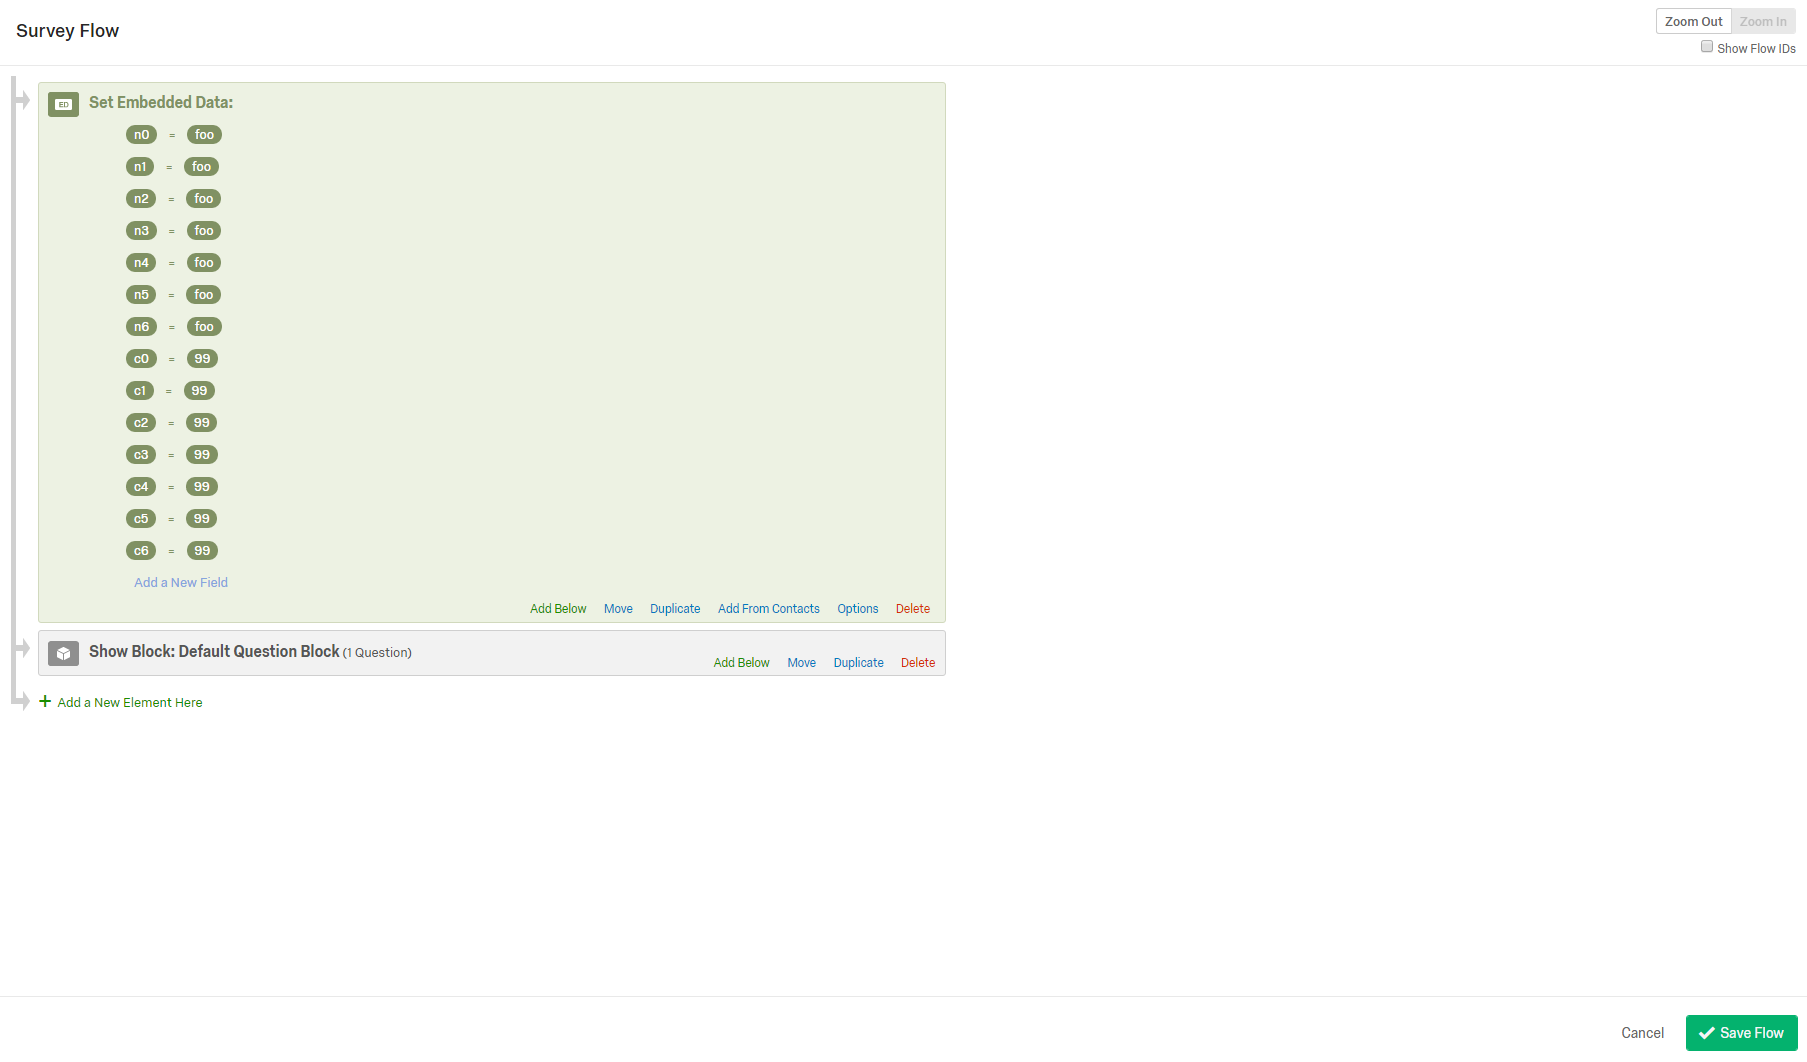
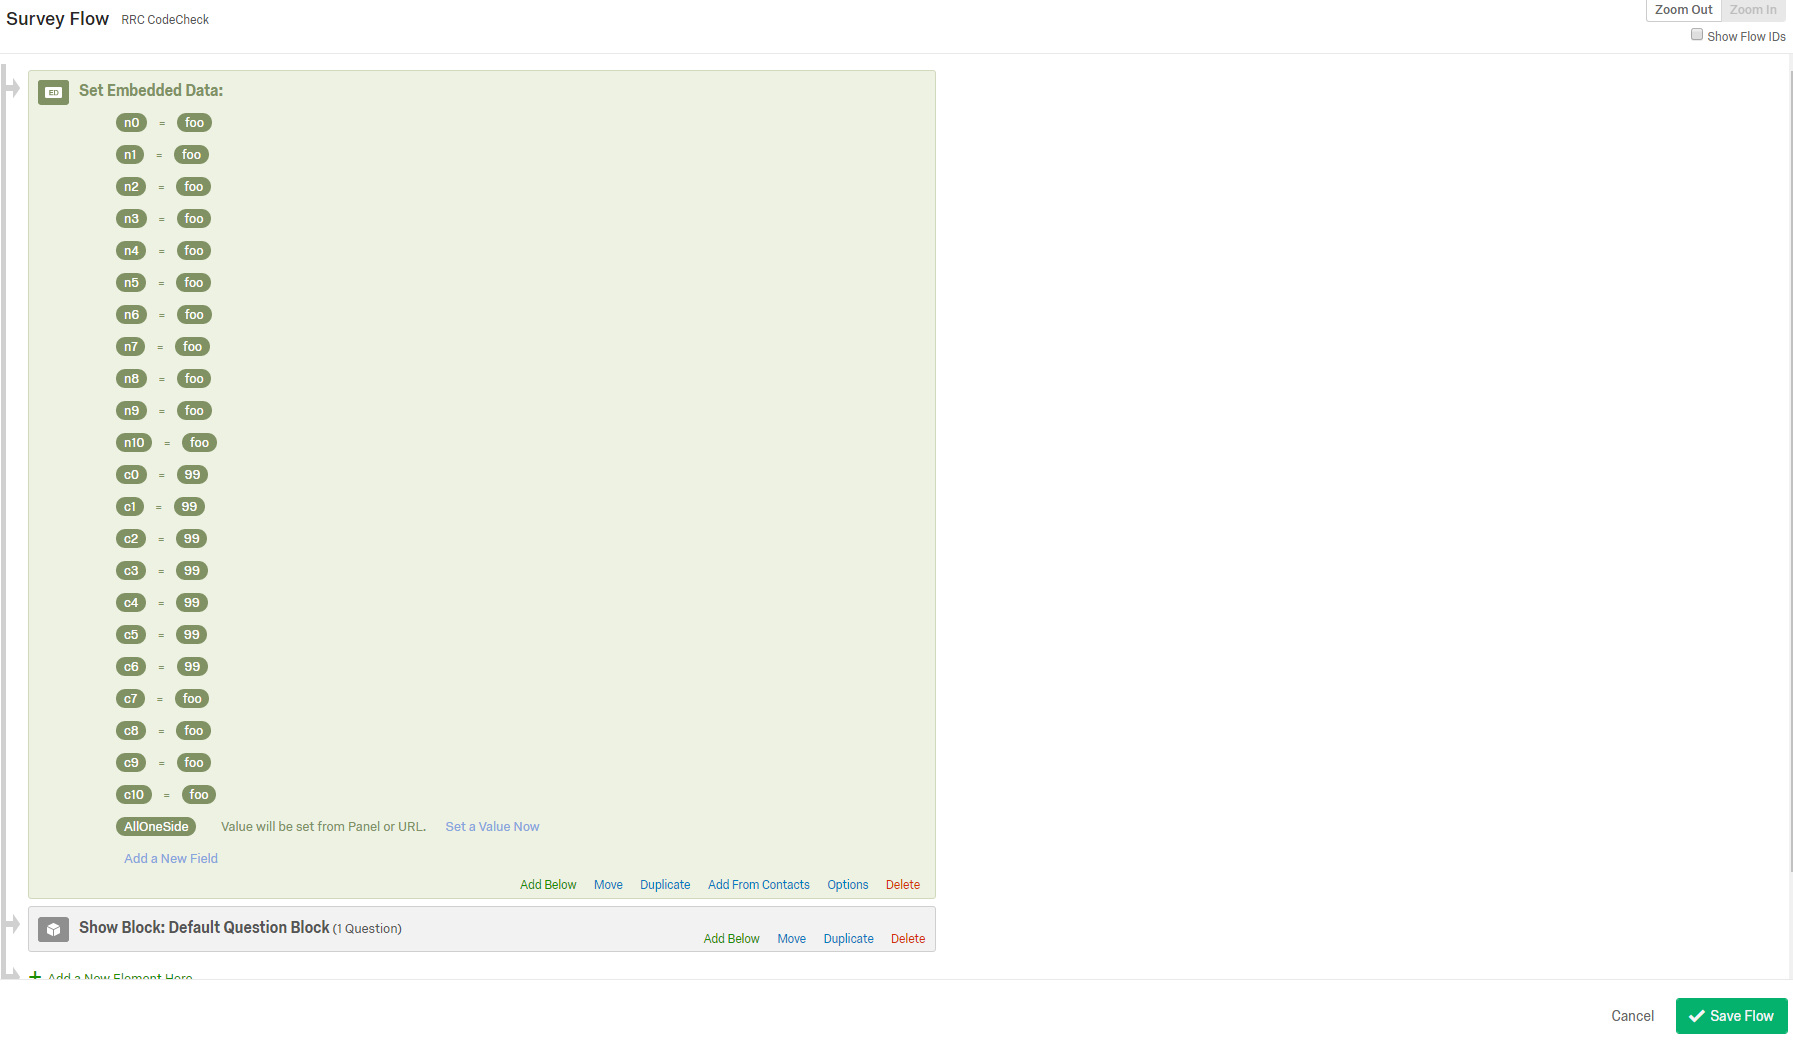
Updates to Round Robin Comparison
Add boolean AllOneSide check as flag for possible bad participants;
explicitly next the image pair container inside the Qualtrics question
container; use image base URL and list of image names.  Update Survey
Flow png and README accordingly.

diff --git a/Module-RRC/ETK-RoundRobinQualtrics.js b/Module-RRC/ETK-RoundRobinQualtrics.js
@@ -18,51 +18,78 @@ The prefixes and code for the Embedded Data can also be changed as needed
 to fit the specific variable names defined by the user.  
 */
 
-// Image names/URLs will need to be updated by user.
-var imgs = [ 
-"http://146.6.82.10/TestImages/Image00.png",
-"http://146.6.82.10/TestImages/Image01.png",
-"http://146.6.82.10/TestImages/Image02.png",
-"http://146.6.82.10/TestImages/Image03.png",
-"http://146.6.82.10/TestImages/Image04.png"
+// List of Test images.  Baseline is first image by default.
+// Baseline will be compared to itself and each of the Test images.
+var imgURL = "http://146.6.82.10/TestImages/";
+var baseNames = [ 
+"Image00",
+"Image01",
+"Image02",
+"Image03",
+"Image04"
 ];
-var imgNames = ["Image00", "Image01", "Image02", "Image03", "Image04"];
+var imgs = [];
+var imgNames = [];
 
 // Add validation pair here if used.
 // Set valsExists to false if no validation pair used.
-valsExists = true;
-valsIndex = 0;
-var vals = [ 
-"http://146.6.82.10/TestImages/Validation0.png",
-"http://146.6.82.10/TestImages/Validation1.png"
+var valExists = true;
+var valIndex = 0;
+var valNames = [
+"Validation0", 
+"Validation1"
 ];
-var valsNames = ["Val00", "Val01"];
 	
-var container = document.getElementById('imageContainer');
+// Create containers, attach global container to Qualtrics Question Container
+var imgContainer = document.getElementById('imageContainer');
+var glbContainer =  this.getQuestionContainer();
 var quesText = document.getElementById('myQuesText')
+imgContainer.className = "pairBox";
+
+// Create buttons with needed attributes and text
 var leftBtn = document.createElement("BUTTON");
-var leftText = document.createTextNode("LEFT");
-leftBtn.appendChild(leftText);
 var rightBtn = document.createElement("BUTTON");
-var rightText = document.createTextNode("RIGHT");
-rightBtn.appendChild(rightText);
 var nextBtn = document.createElement("BUTTON");
 var nextText = document.createTextNode("NEXT Image Pair");
-nextBtn.appendChild(nextText);
+var leftText = document.createTextNode("LEFT");
+var rightText = document.createTextNode("RIGHT");
 
+nextBtn.className = "nextButton";
 leftBtn.className = "choiceButton leftButton";
 rightBtn.className = "choiceButton rightButton";
-nextBtn.className = "nextButton";
+leftBtn.setAttribute = ("type", "radio");
+rightBtn.setAttribute = ("type", "radio");
+nextBtn.appendChild(nextText);
+leftBtn.appendChild(leftText);
+rightBtn.appendChild(rightText);
 
 var imgPairs = [];
 var imgPairsIndex = 0;  
 var imgPairNames = [];
 var didflip = false;
 var that;
+
+// Create variables for write-out to Qualtrics Embedded Data var choicePre = "c";
 var choicePre = "c";
 var choiceEmbData;
 var namePre = "n";
 var nameEmbData;
+var currentChoice;
+
+// Create variables to check if participant only selects one button 
+var allLeft = true;
+var allRight = true;
+var nameAllOneSide = "AllOneSide";
+
+function preloadImages(arr){ // preload imaegs
+    var newimages=[]
+	//force arr parameter to always be an array
+    for (var i=0; i<arr.length; i++){
+    var arr=(typeof arr!="object")? [arr] : arr 
+        newimages[i]=new Image()
+        newimages[i].src=arr[i]
+    }
+}
 
 function shuffle(array) {  // Fisher-Yates Shuffle from stackoverflow
     var currentIndex = array.length, temporaryValue, randomIndex;
@@ -72,7 +99,6 @@ function shuffle(array) {  // Fisher-Yates Shuffle from stackoverflow
      // Pick a remaining element...
      randomIndex = Math.floor(Math.random() * currentIndex); 
      currentIndex -= 1;
-
      // And swap it with the current element.
      temporaryValue = array[currentIndex];
      array[currentIndex] = array[randomIndex];
@@ -81,7 +107,7 @@ function shuffle(array) {  // Fisher-Yates Shuffle from stackoverflow
   return array;
 }
 
-function show2Images(container, imgA, imgB) { 
+function show2Images(outContainer, inContainer, imgA, imgB) {  
 	var img;
 	var docFrag = document.createDocumentFragment();
 	var someSpace = document.createTextNode("  ");
@@ -99,19 +125,15 @@ function show2Images(container, imgA, imgB) {
 		docFrag.appendChild(someSpace);
 	    docFrag.appendChild(img=document.createElement('img')).src = imgA;
 	}
-	container.appendChild(docFrag);
-	container.appendChild(document.createElement('br'));
-	container.appendChild(leftBtn);
-	container.appendChild(rightBtn);
-	container.appendChild(document.createElement('br'));
-	container.appendChild(document.createElement('br'));
-	container.appendChild(nextBtn);
+	inContainer.appendChild(docFrag);
+	inContainer.appendChild(document.createElement('br'));
+	inContainer.appendChild(leftBtn);
+	inContainer.appendChild(rightBtn);
+	inContainer.appendChild(document.createElement('br'));
+	inContainer.appendChild(nextBtn);
+	
+	outContainer.appendChild(inContainer);
 	return flipped;
-}
-
-function createImagePairing (firstImageNum, secondImageNum) {
-	imgPairs.push ({iA: firstImageNum, iB: secondImageNum, 
-	                 iAname: imgNames[firstImageNum], iBname: imgNames[secondImageNum]});
 }
 
 function clearContainer(elementID) {
@@ -119,90 +141,100 @@ function clearContainer(elementID) {
 		elementID.removeChild(elementID.firstChild)}
 }
 
-function endStudy(container) {
+function endStudy(inContainer) {
 	var endTextTitle = document.createTextNode("Please click on SUBMIT to record your choices.");
 	var docFrag = document.createDocumentFragment();
 	
 	quesText.style.display = "none";	
-	container.style.backgroundColor = "#CC5500";
-	container.style.fontSize="200%";
-	container.style.fontWeight="bold" ;
+	inContainer.style.backgroundColor = "#CC5500";
+	inContainer.style.fontSize="200%";
+	inContainer.style.fontWeight="bold" ;
 	docFrag.appendChild(endTextTitle); 
-	container.appendChild(docFrag);
+	inContainer.appendChild(docFrag);
 	that.showNextButton();
 }
 
-// Start Round Robin
+// Start Round Robin Comparison
+
 that = this;
 that.hideNextButton();
-clearContainer(container);
+
+// Build the image arrays from the URL and names; preload images
+// Create an array of indices, shuffle that and 
+// always compare the two images with same index.
+for (i=0; i<baseNames.length; i++) {
+	imgs[i] = imgURL + baseNames[i];
+	imgNames[i] = baseNames[i];
+}
 
 // Use an array of objects to determine which images are to be shown.
 for (i= 0; i<imgs.length; i++) { // build the pairs 
 	for (j = i+1; j<imgs.length; j++) {
-		createImagePairing (i, j);
+		imgPairs.push ({iA: i, iB: j, iAname: imgNames[i], iBname: imgNames[j]});
 	}
 }
 
-// If there is a validation pair, add those to the imgPairs to get 
-// randomly shuffled.
-if (valsExists) {
-	valsIndex = imgs.length;
-	imgs.push (vals[0]);
-	imgs.push (vals[1]);
-	imgPairs.push ({iA: valsIndex, iB: valsIndex+1, 
-	               iAname: valsNames[0], iBname: valsNames[1]});
+// If there is a validation pair, add that pair to the imgPairs so it get 
+// randomly shuffled into the list of image pairs.
+if (valExists) {
+	valIndex = imgs.length;
+	imgs.push (imgURL + valNames[0]);
+	imgs.push (imgURL + valNames[1]);
+	imgPairs.push ({iA: valIndex, iB: valIndex+1, 
+	               iAname: valNames[0], iBname: valNames[1]});
 }
-
+preloadImages(imgs);
+clearContainer(imgContainer);
 shuffle(imgPairs);
 
 // Showing initial image pair
 nextBtn.disabled = true;
-didflip = show2Images(document.getElementById('imageContainer'), imgs[imgPairs[0].iA], imgs[imgPairs[0].iB]);
+didflip = show2Images(glbContainer, imgContainer, imgs[imgPairs[0].iA], imgs[imgPairs[0].iB]);
 imgPairNames[imgPairsIndex] = imgPairs[imgPairsIndex].iAname + "-" + imgPairs[imgPairsIndex].iBname;
-if (didflip) {
-	imgPairNames[imgPairsIndex] = imgPairs[imgPairsIndex].iBname + "-" + imgPairs[imgPairsIndex].iAname;
-}
 	
 // Click "Next" button to see next image pair
 nextBtn.addEventListener('click', function() {
-	clearContainer(container);
+	clearContainer(imgContainer);
 	leftBtn.style.backgroundColor = "burlywood";
 	rightBtn.style.backgroundColor = "burlywood";	
 	nextBtn.style.backgroundColor = "burlywood";
 	nextBtn.disabled = true;
 	imgPairsIndex++;
 	if (imgPairsIndex < imgPairs.length) {
-		didflip = show2Images(container, imgs[imgPairs[imgPairsIndex].iA], imgs[imgPairs[imgPairsIndex].iB]);
+		didflip = show2Images(glbContainer, imgContainer, imgs[imgPairs[imgPairsIndex].iA], imgs[imgPairs[imgPairsIndex].iB]);
 		imgPairNames[imgPairsIndex] = imgPairs[imgPairsIndex].iAname + "-" + imgPairs[imgPairsIndex].iBname;
-		if (didflip) {
-			imgPairNames[imgPairsIndex] = imgPairs[imgPairsIndex].iBname + "-" + imgPairs[imgPairsIndex].iAname;
-		}
 	} else {
-		endStudy(container);
+		endStudy(imgContainer);
+		Qualtrics.SurveyEngine.setEmbeddedData(nameAllOneSide, allLeft||allRight);
 	}
 });
 
 leftBtn.addEventListener('click', function(){
  // Note choice for Left Button 
-	leftBtn.style.backgroundColor = "red";
+	leftBtn.style.backgroundColor = "white";
 	rightBtn.style.backgroundColor = "burlywood";
 	nextBtn.style.backgroundColor = "GreenYellow";
 	nextBtn.disabled = false;
+	allRight = false;
 	choiceEmbData = choicePre + imgPairsIndex;
-	Qualtrics.SurveyEngine.setEmbeddedData(choiceEmbData, 1);
 	nameEmbData = namePre + imgPairsIndex;
+	currentChoice = 1;  // 1 = First/Left mage chosen
+	if (didflip) {currentChoice = 2;}  // Flip if needed
+	Qualtrics.SurveyEngine.setEmbeddedData(choiceEmbData, currentChoice);
 	Qualtrics.SurveyEngine.setEmbeddedData(nameEmbData, imgPairNames[imgPairsIndex]);
  });
  rightBtn.addEventListener('click', function(){
  // Note choice for Right Button
-	rightBtn.style.backgroundColor = "red";
+	rightBtn.style.backgroundColor = "white";
 	leftBtn.style.backgroundColor = "burlywood";
 	nextBtn.style.backgroundColor = "GreenYellow";
 	nextBtn.disabled = false;
+	allLeft = false;
 	choiceEmbData = choicePre + imgPairsIndex;
-	Qualtrics.SurveyEngine.setEmbeddedData(choiceEmbData, 2);
 	nameEmbData = namePre + imgPairsIndex;
+	currentChoice = 2;   // 2 = Right/Second image chosen
+	if (didflip) {currentChoice = 1;}   // Flip if needed
+	Qualtrics.SurveyEngine.setEmbeddedData(choiceEmbData, currentChoice);
 	Qualtrics.SurveyEngine.setEmbeddedData(nameEmbData, imgPairNames[imgPairsIndex]);
  });
  

diff --git a/Module-RRC/ETK-RoundRobinQualtrics.html b/Module-RRC/ETK-RoundRobinQualtrics.html
@@ -15,11 +15,14 @@ Note:  The question text is given the id of "myQuesText".  If this
 id is used, the question text will not appear for the final SUBMIT screen.  
 -->
 
-<div id="imageContainer" class="pairBox"></div>
+<div id="imageContainer"></div>
 
-<p id="myQuesText">Using the LEFT/RIGHT buttons, please choose the image you like more.
+<p id="myQuesText">
+Using the LEFT/RIGHT buttons, please choose the image with the lower number.
 Click on Next Image Pair when you have made your choice. 
-The SUBMIT button will appear after all image pairs have been viewed. </p>
+
+The SUBMIT button will appear after all image pairs have been viewed. 
+</p>
 
 <!--
 Copyright (c) 2016, University of Texas at Austin, Los Alamos National Laboratory.

diff --git a/Module-RRC/ETK-RoundRobinQualtrics.css b/Module-RRC/ETK-RoundRobinQualtrics.css
@@ -20,7 +20,7 @@ to fit your study needs.
   .pairBox {
      margin-left: auto;
       margin-right: auto;
-      width: 825px;
+      width: 825px;		 /* Modify to be (2*image width + 25pixels) */
       position: relative;
       margin: 1em;
       border: 10px solid #ccc;
@@ -37,7 +37,7 @@ to fit your study needs.
 	 width: 15%;
   }	
   .leftButton {
-	 margin-left: 34%;
+	 margin-left: 34.5%;
   }
   .nextButton {
     background-color: burlywood;
